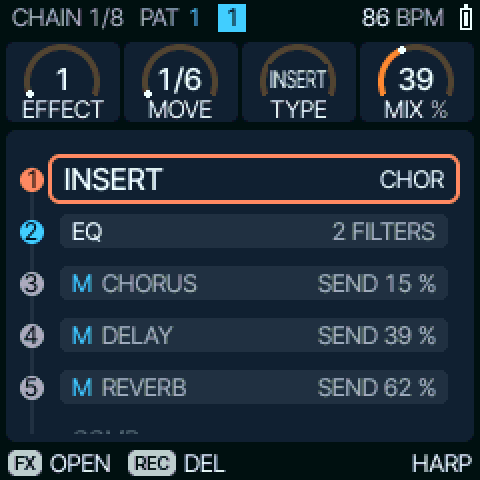
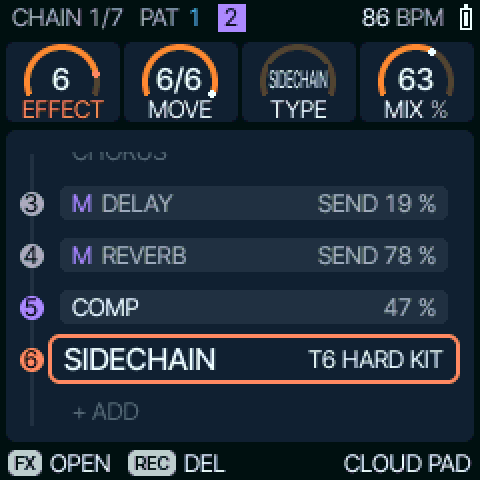
README: GLO SONG playing (the playhead, the tracks' patterns), the FX chain with its SIDECHAIN (the pad ducking on the kick)
Claude-Session: https://claude.ai/code/session_01C1QuvBPua8jGdpzGpHw3U6

diff --git a/README.md b/README.md
@@ -20,10 +20,10 @@ All captured from the firmware itself (the browser emulator's build, the TRIP-HO
 
 | | |
 |:---:|:---:|
-| <img src="assets/readme/home.png" width="240" alt="HOME"><br>**HOME**: the eight tracks as a channel rack, the playhead | <img src="assets/readme/glo-song.png" width="240" alt="GLO SONG"><br>**GLO > SONG**: the arrangement, a pattern per track and section |
+| <img src="assets/readme/home.png" width="240" alt="HOME"><br>**HOME**: the eight tracks as a channel rack, the playhead | <img src="assets/readme/glo-song.png" width="240" alt="GLO SONG"><br>**GLO > SONG**, playing: the arrangement, a pattern per track and section, the playhead |
 | <img src="assets/readme/mixer.png" width="240" alt="MIXER"><br>**MIXER**: levels, pan, meters, the MASTER strip | <img src="assets/readme/patterns.png" width="240" alt="Patterns"><br>**PATTERN**: the pattern selector, each one drawn |
 | <img src="assets/readme/piano-roll.png" width="240" alt="Piano roll"><br>**SEQ > STEP**: the piano roll | <img src="assets/readme/drum-grid.png" width="240" alt="Drum grid"><br>**SEQ > GRID**: the drum grid, lane by lane |
-| <img src="assets/readme/step-detail.png" width="240" alt="Step detail"><br>**SEQ > DETAIL**: chance, ratchet, nudge, velocity per step | <img src="assets/readme/fx-chain.png" width="240" alt="FX chain"><br>**FX > CHAIN**: a track's effects and its sends |
+| <img src="assets/readme/step-detail.png" width="240" alt="Step detail"><br>**SEQ > DETAIL**: chance, ratchet, nudge, velocity per step | <img src="assets/readme/fx-chain.png" width="240" alt="FX chain"><br>**FX > CHAIN**: a pad's effects, its sends, its SIDECHAIN on the kick |
 
 FM Stud1o is an alternative firmware for the **M-VAVE FM-1** pocket synthesizer. It turns the FM-1 into an
 **8-track groovebox** loosely modelled on FL Studio's workflow: a channel rack of eight tracks, global patterns, a
